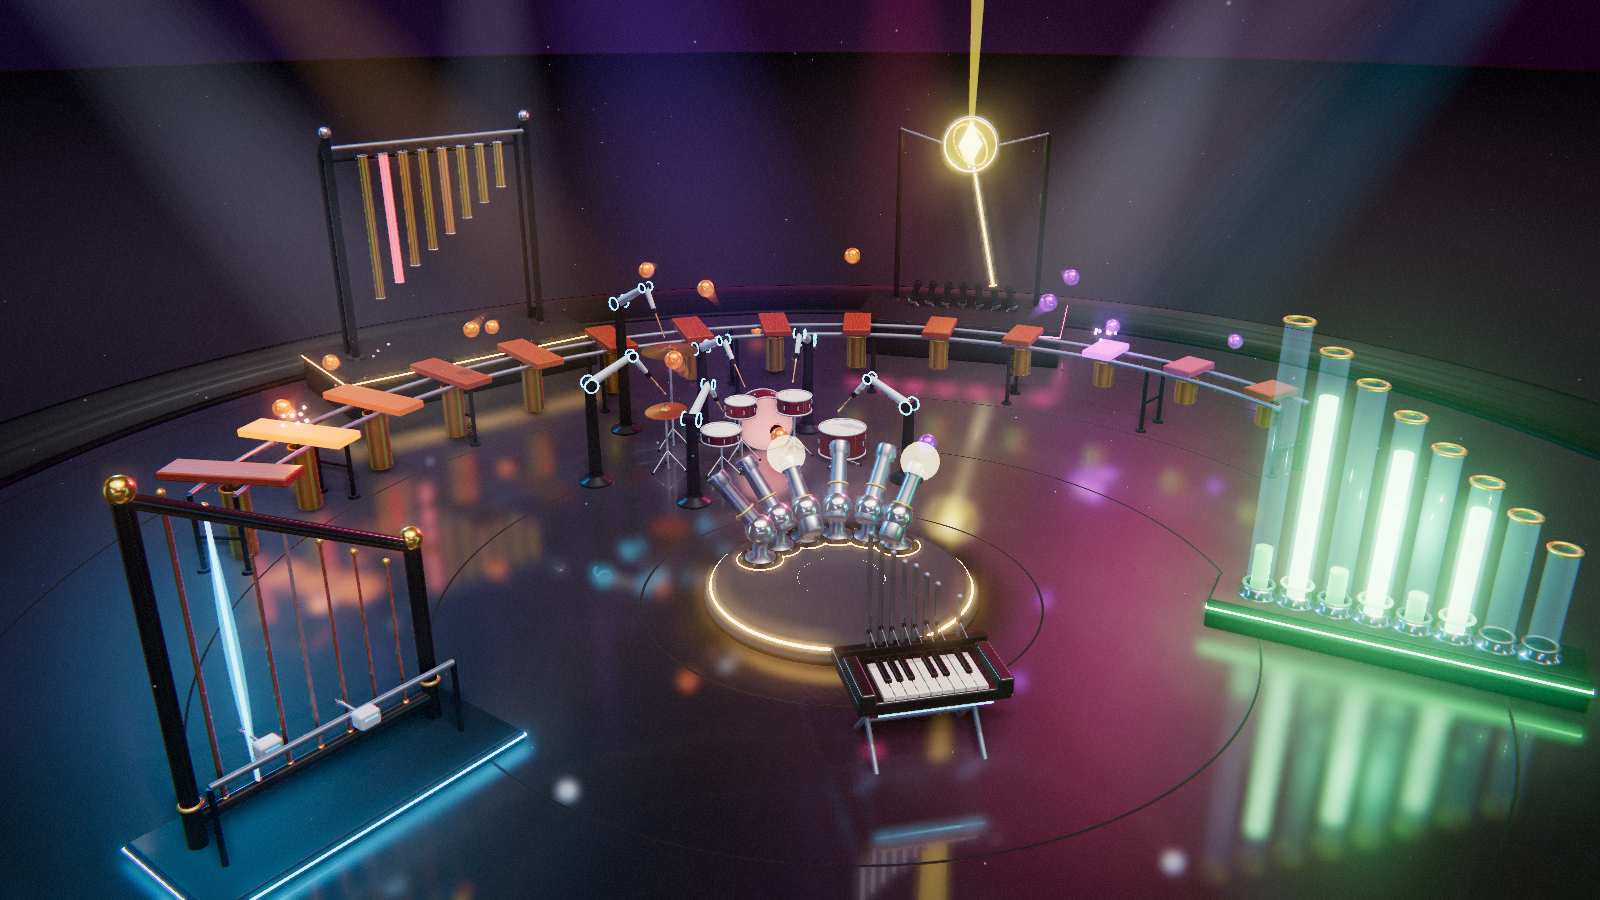
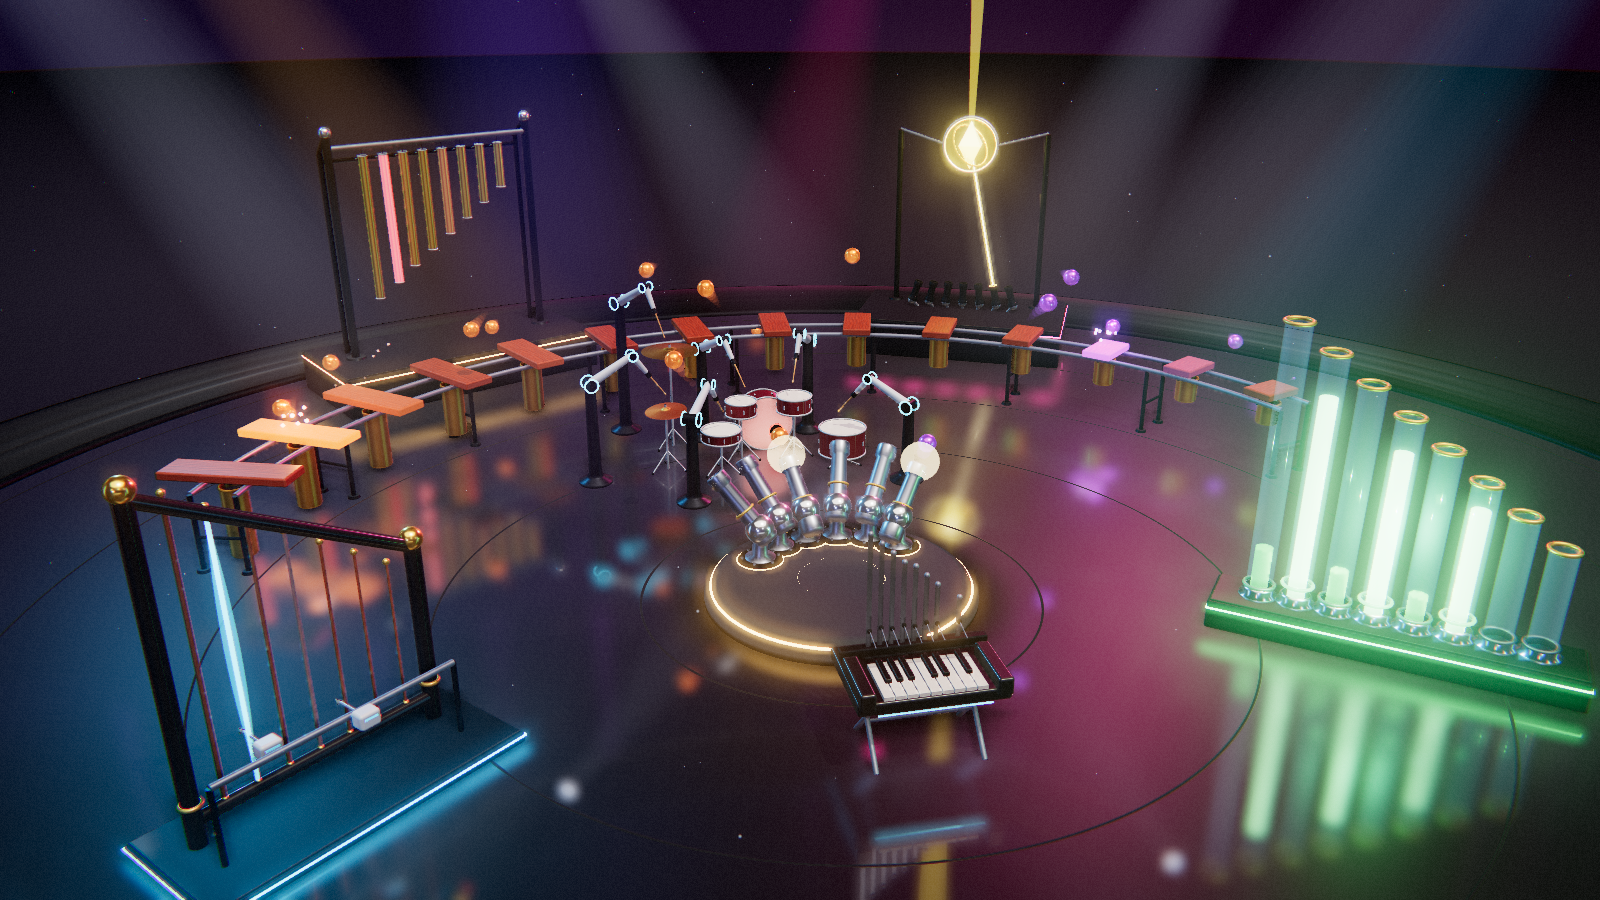
Résonateurs du marimba suspendus à une traverse
Chaque résonateur est accroché à une traverse fixée aux deux rails au lieu de
flotter sous sa lame. L'ombre de contact du plateau des canons passe par un
utilitaire partagé (parts.js) ; elle n'est pas étendue aux autres instruments,
où elle paraissait artificielle.

Claude-Session: https://claude.ai/code/session_01AU8R5vmWY4XxKmgatYCjny

Changed region(s): [[0.0938, 0.0, 0.5938, 0.4667], [0.625, 0.0, 1.0, 0.4044], [0.125, 0.5289, 0.1562, 0.56]]

diff --git a/src/parts.js b/src/parts.js
@@ -2,7 +2,7 @@
 
 import * as THREE from 'three';
 import { RoundedBoxGeometry } from 'three/addons/geometries/RoundedBoxGeometry.js';
-import { mat } from './materials.js';
+import { mat, fx } from './materials.js';
 
 const UP = new THREE.Vector3(0, 1, 0);
 export const V = (x, y, z = 0) => new THREE.Vector3(x, y, z);
@@ -39,6 +39,56 @@ export function plinth(width, depth, height, { bottom = 0, color = 0x49d8ff } = 
   top.position.y = bottom + height + 0.012;
   group.add(body, strip, top);
   return { group, led };
+}
+
+const shadowGeo = new THREE.PlaneGeometry(1, 1);
+shadowGeo.rotateX(-Math.PI / 2);
+
+/**
+ * Ombre de contact posée sur le sol : assombrit le sol (et son reflet) au pied d'un
+ * objet, pour qu'il ne paraisse pas flotter. Forme : rectangle arrondi de demi-côtés
+ * (halfX, halfZ) et de rayon `radius` (un disque si les demi-côtés sont nuls), qui
+ * s'estompe sur la distance `spread`.
+ */
+export function contactShadow(halfX, halfZ, { radius = 0, spread = 0.35, strength = 0.75, y = 0.004 } = {}) {
+  const sx = 2 * (halfX + radius + spread);
+  const sz = 2 * (halfZ + radius + spread);
+  const mesh = new THREE.Mesh(
+    shadowGeo,
+    new THREE.ShaderMaterial({
+      uniforms: {
+        uSize: { value: new THREE.Vector2(sx, sz) },
+        uHalf: { value: new THREE.Vector2(halfX, halfZ) },
+        uShape: { value: new THREE.Vector3(radius, spread, strength) },
+      },
+      vertexShader: 'varying vec2 vUv; void main(){ vUv = uv; gl_Position = projectionMatrix * modelViewMatrix * vec4(position, 1.0); }',
+      fragmentShader: `
+        uniform vec2 uSize; uniform vec2 uHalf; uniform vec3 uShape; varying vec2 vUv;
+        void main() {
+          vec2 p = abs((vUv - 0.5) * uSize) - uHalf;
+          float d = length(max(p, 0.0)) + min(max(p.x, p.y), 0.0) - uShape.x;
+          float a = 1.0 - smoothstep(0.0, uShape.y, d);
+          gl_FragColor = vec4(0.0, 0.0, 0.0, uShape.z * a * a);
+        }`,
+      transparent: true,
+      depthWrite: false,
+      polygonOffset: true,
+      polygonOffsetFactor: -2,
+      polygonOffsetUnits: -2,
+    }),
+  );
+  mesh.scale.set(sx, 1, sz);
+  mesh.position.y = y;
+  mesh.renderOrder = -1;
+  return fx(mesh);
+}
+
+/** Ombre de contact en disque, centrée en (x, z). */
+export function footShadow(x, z, radius, options) {
+  const mesh = contactShadow(0, 0, { radius, ...options });
+  mesh.position.x = x;
+  mesh.position.z = z;
+  return mesh;
 }
 
 /** Profil de révolution : liste de [rayon, hauteur]. */

diff --git a/src/ballsView.js b/src/ballsView.js
@@ -2,7 +2,7 @@ import * as THREE from 'three';
 import { activeBallRange, ballPosition, ballScale, barPulse, launcherPose } from './choreography.js';
 import { lowerBound, upperBound } from './util.js';
 import { mat, fx } from './materials.js';
-import { roundedBox, lathe, rod, ringOf, V } from './parts.js';
+import { roundedBox, lathe, rod, ringOf, footShadow, V } from './parts.js';
 
 const UP = new THREE.Vector3(0, 1, 0);
 const TRAIL = 6; // fantômes lumineux derrière chaque bille
@@ -62,8 +62,12 @@ export class BallsView {
         24,
         brass,
       );
-      tube.position.set(bar.position[0], o.barTopY - 0.2 - tubeLen, bar.position[2]);
-      this.content.add(tube);
+      // Le résonateur est suspendu à une traverse fixée aux deux rails (il ne flotte pas).
+      const hangY = o.barTopY - 0.115 - 0.045;
+      tube.position.set(bar.position[0], hangY - 0.012 - tubeLen, bar.position[2]);
+      const dir = [Math.sin(bar.angle), -Math.cos(bar.angle)];
+      const at = (r) => V(dir[0] * r, hangY, dir[1] * r);
+      this.content.add(tube, rod(at(ch.radius - 0.3), at(ch.radius + 0.3), 0.014, dark, 8));
       return mesh;
     });
 
@@ -118,21 +122,7 @@ export class BallsView {
         new THREE.MeshStandardMaterial({ color: 0x30343e, roughness: 0.68, metalness: 0.4 }),
       );
       // Ombre de contact au sol : le plateau ne « flotte » plus sur son reflet.
-      const shade = new THREE.Mesh(
-        new THREE.RingGeometry(R + 0.3, R + 1.5, 72, 1),
-        new THREE.ShaderMaterial({
-          uniforms: { uInner: { value: R + 0.6 }, uOuter: { value: R + 1.5 } },
-          vertexShader: 'varying float vR; void main(){ vR = length(position.xy); gl_Position = projectionMatrix * modelViewMatrix * vec4(position, 1.0); }',
-          fragmentShader:
-            'uniform float uInner; uniform float uOuter; varying float vR; void main(){ float a = 1.0 - smoothstep(uInner, uOuter, vR); gl_FragColor = vec4(0.0, 0.0, 0.0, 0.8 * a * a); }',
-          transparent: true,
-          depthWrite: false,
-        }),
-      );
-      shade.rotation.x = -Math.PI / 2;
-      shade.position.y = 0.004;
-      shade.renderOrder = -1;
-      this.content.add(fx(shade));
+      this.content.add(footShadow(0, 0, R + 0.6, { spread: 0.9, strength: 0.8 }));
       this.hubMat = mat.glow(0xffc46b, 1.6);
       const ring = new THREE.Mesh(new THREE.TorusGeometry(R + 0.53, 0.018, 8, 96), this.hubMat);
       ring.rotation.x = Math.PI / 2;
